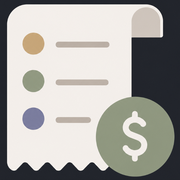
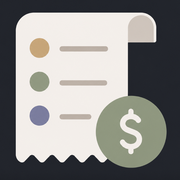
Add files via upload

diff --git a/index.html b/index.html
@@ -9,8 +9,8 @@
 <meta name="apple-mobile-web-app-status-bar-style" content="black-translucent">
 <meta name="apple-mobile-web-app-title" content="Due">
 <title>Due</title>
-<link rel="icon" type="image/png" href="icon-192.png?v=2">
-<link rel="apple-touch-icon" href="apple-touch-icon.png?v=2">
+<link rel="icon" type="image/png" href="icon-192.png?v=3">
+<link rel="apple-touch-icon" href="apple-touch-icon.png?v=3">
 <link rel="preconnect" href="https://fonts.googleapis.com">
 <link rel="preconnect" href="https://fonts.gstatic.com" crossorigin>
 <link rel="stylesheet" href="https://fonts.googleapis.com/css2?family=Fraunces:opsz,wght@9..144,400;9..144,500&family=Public+Sans:wght@400;500&display=swap">
@@ -181,7 +181,7 @@
     <button class="tbtn" onclick="openAccts()">Bank accounts</button>
     <button class="tbtn" onclick="changePassword()">Change password</button>
     <button class="tbtn" onclick="signOut()">Sign out</button>
-    <span class="tbtn" style="cursor:default;opacity:.6">v4.1</span>
+    <span class="tbtn" style="cursor:default;opacity:.6">v4.2</span>
   </div>
 
   <button class="fab" onclick="openForm()" aria-label="Add subscription">+</button>
@@ -251,7 +251,7 @@
 "use strict";
 
 /* ================= constants & state ================= */
-const APP_VERSION = "4.1";
+const APP_VERSION = "4.2";
 const SUPABASE_URL = "https://anpvflizwcmyefbxsfpx.supabase.co";
 const SUPABASE_KEY = "sb_publishable_Va_eUdkFSmtD4uKqNIvppw_wlB1eEYJ";
 const sb = supabase.createClient(SUPABASE_URL, SUPABASE_KEY, { auth: { flowType: "implicit", detectSessionInUrl: true } });
@@ -695,5 +695,5 @@ checkForUpdate();
 init();
 </script>
 </body>
-<!-- v4.1 -->
+<!-- v4.2 -->
 </html>
